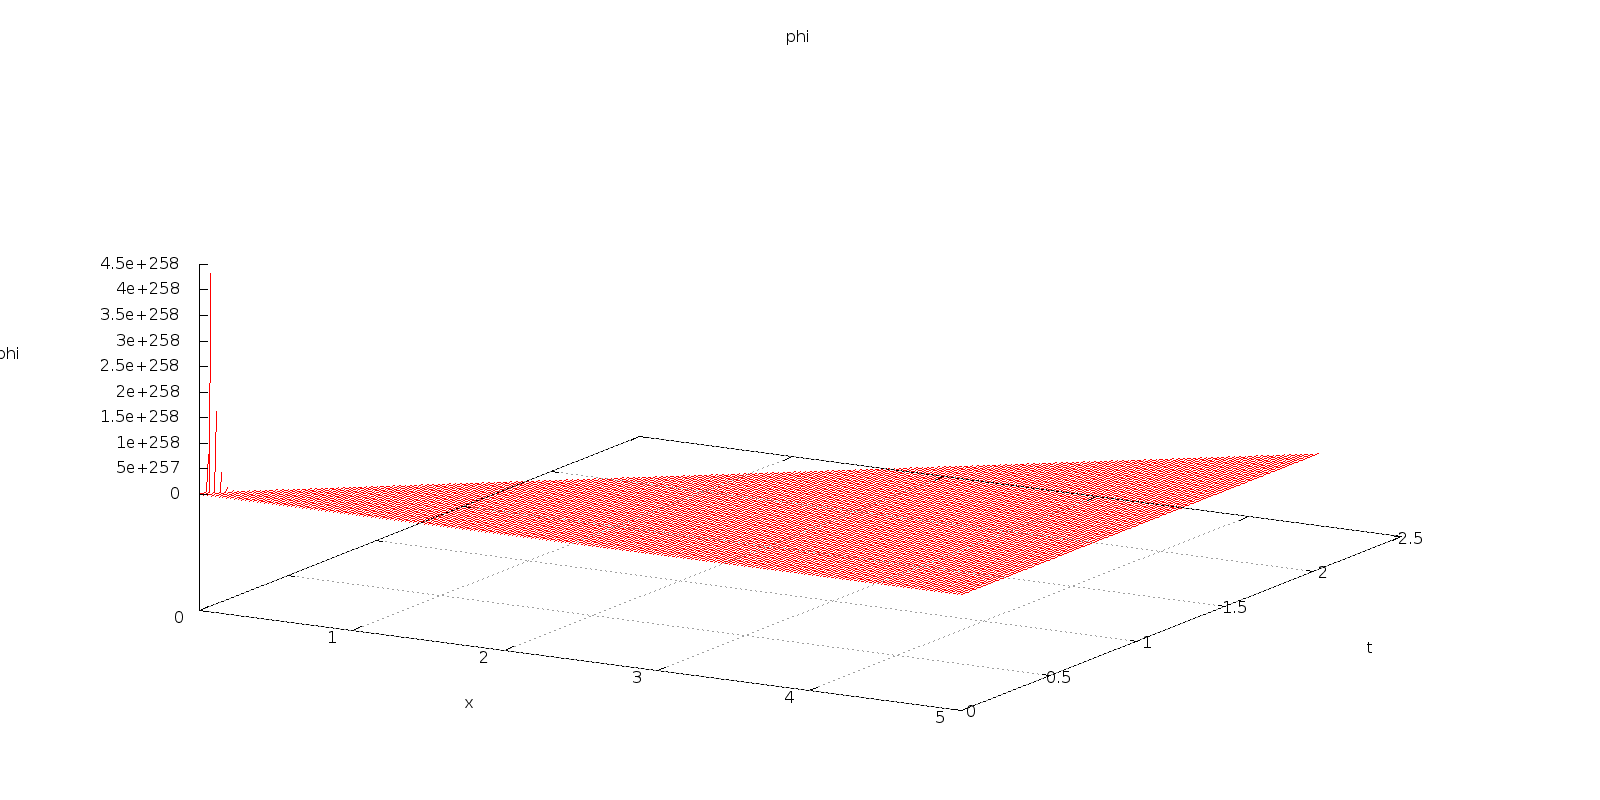
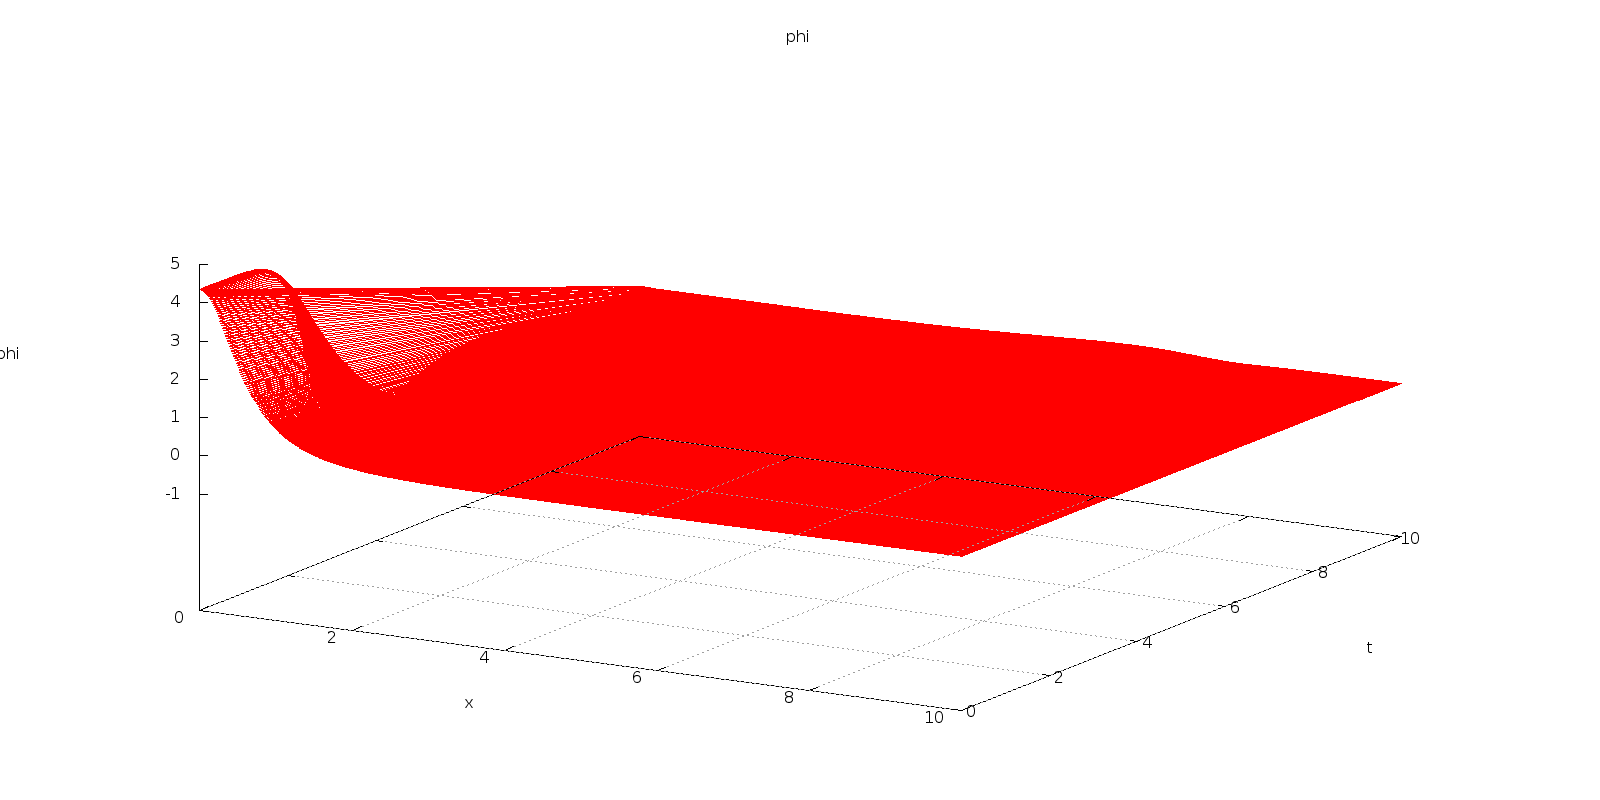
time evolution of sphaleron second attempt

Changed region(s): [[0.0625, 0.3125, 0.875, 0.75]]

diff --git a/sphaleronY0.cc b/sphaleronY0.cc
@@ -289,10 +289,10 @@ gsl_odeiv2_system sys = {func, jac, 4, &paramsVoid};
 double F = 1.0, dF;
 double aim = 0.0;
 double closeness = 1.0e-9;
-double t0 = 1.0e-16, t1 = 5.0;
-const unsigned int N = 2e2;
-double h = t1-t0;
-h /= (double)N;
+double r0 = 1.0e-16, r1 = 10.0;
+const unsigned int N = 8e2;
+double dr = r1-r0;
+dr /= (double)N;
 vector<double> y0Vec(N+1), y2Vec(N+1);
 unsigned int runsCount = 0;
 
@@ -300,14 +300,14 @@ double Y0 = 4.337;//initial guess
 //cout << "initial y0: ";
 //cin >> Y0;
 
-printf("%16s%16s%16s%16s%16s%16s%16s%16s\n","run","N","y(t1)","yMin","F-aim","Y0Old","Y0New","-F/dF");
+printf("%16s%16s%16s%16s%16s%16s%16s%16s\n","run","N","y(r1)","yMin","F-aim","Y0Old","Y0New","-F/dF");
 
 while (absolute(F-aim)>closeness)
 	{
 	runsCount++;
 	gsl_odeiv2_driver * d = gsl_odeiv2_driver_alloc_yp_new (&sys,  gsl_odeiv2_step_rk8pd, 1.0e-6, 1.0e-6, 0.0);
 
-	double t = t0, ti;
+	double r = r0, ri;
 	double y0[4] = { Y0, 0.0, 1.0, 0.0};
 	double y[4];
 	memcpy(y, y0, sizeof(y0));
@@ -319,14 +319,14 @@ while (absolute(F-aim)>closeness)
 	
 	for (i = 1; i <= N; i++)
 		{
-		ti =(double)i;
-		ti *= h;
-		ti += t0;
-		status = gsl_odeiv2_driver_apply (d, &t, ti, y);
+		ri =(double)i;
+		ri *= dr;
+		ri += r0;
+		status = gsl_odeiv2_driver_apply (d, &r, ri, y);
 		if (status != GSL_SUCCESS)
 			{
 			printf ("error, return value=%d\n", status);
-			printf ("i = %3i, t = %3g\n",i,t);
+			printf ("i = %3i, r = %3g\n",i,r);
 			break;
 			}
 		if ((y[0]-aim)<yMin && (y[0]-aim)>0.0)
@@ -336,7 +336,7 @@ while (absolute(F-aim)>closeness)
 			}
 		y0Vec[i] = y[0];
 		y2Vec[i] = y[2];
-		//printf ("%.5e %.5e %.5e\n", t, y[0], y[1]);
+		//printf ("%.5e %.5e %.5e\n", r, y[0], y[1]);
 		if ((y[0]-aim)<0.0)
 			{
 			iMin = i;
@@ -345,7 +345,7 @@ while (absolute(F-aim)>closeness)
 		}
 	if (status != GSL_SUCCESS){break;}
 		
-	F = y0Vec[iMin]-aim; //as final boundary condition is y(t1)=0.0;
+	F = y0Vec[iMin]-aim; //as final boundary condition is y(r1)=0.0;
 	dF = y2Vec[iMin];
 	printf("%16i%16i%16g%16g%16g%16.12g",runsCount,i,y[0],yMin,F-aim,Y0);
 	if (absolute(dF)>2.0e-16)
@@ -374,7 +374,7 @@ gsl_function E_integrand;
 E_integrand.function = &EIntegrand;
 E_integrand.params = &p;
 gsl_integration_workspace *w = gsl_integration_workspace_alloc(1e4);
-gsl_integration_qag(&E_integrand, t0, t1, 1.0e-10, 1.0e-9, 1e4, 4, w, &E, &Eerror);
+gsl_integration_qag(&E_integrand, r0, r1, 1.0e-10, 1.0e-9, 1e4, 4, w, &E, &Eerror);
 gsl_integration_workspace_free(w);
 if (Eerror>1.0e-8) { cout << "E error = " << Eerror << endl;}
 else { cout << "E = " << E << endl;}
@@ -385,15 +385,15 @@ else { cout << "E = " << E << endl;}
 spMat D1(N+1,N+1), D2(N+1,N+1);
 D1.setZero();
 D2.setZero();
-double t = t0;
+double t = r0;
 for (unsigned int j=0; j<(N+1); j++)
 	{
 	if (j==0)
 		{
-		D1.insert(j,j) = pow(t,2.0)/h + pow(t,2.0)*h*( 1.0 - 3.0*pow(y0Vec[j],2.0) );
-		D1.insert(j,j+1) = -pow(t,2.0)/h;
-		D2.insert(j,j) = 1.0/pow(h,2.0) + 2.0/h/t + 1.0 - 3.0*pow(y0Vec[j],2.0);
-		D2.insert(j,j+1) = -1.0/pow(h,2.0) - 2.0/h/t;
+		D1.insert(j,j) = pow(t,2.0)/dr + pow(t,2.0)*dr*( 1.0 - 3.0*pow(y0Vec[j],2.0) );
+		D1.insert(j,j+1) = -pow(t,2.0)/dr;
+		D2.insert(j,j) = 1.0/pow(dr,2.0) + 2.0/dr/t + 1.0 - 3.0*pow(y0Vec[j],2.0);
+		D2.insert(j,j+1) = -1.0/pow(dr,2.0) - 2.0/dr/t;
 		/*D1.insert(j,j) = -1.0; //derivative of phi is zero at r=0
 		D1.insert(j,j+1) = 1.0;
 		D2.insert(j,j) = -1.0;
@@ -401,23 +401,23 @@ for (unsigned int j=0; j<(N+1); j++)
 		}
 	else if (j==N)
 		{
-		D1.insert(j,j) = pow(t-h,2.0)/h + pow(t,2.0)*h*( 1.0 - 3.0*pow(y0Vec[j],2.0) );
-		D1.insert(j,j-1) = -pow(t-h,2.0)/h;
-		D2.insert(j,j) = 1.0/pow(h,2.0) + 1.0 - 3.0*pow(y0Vec[j],2.0);
-		D2.insert(j,j-1) = -1.0/pow(h,2.0);
+		D1.insert(j,j) = pow(t-dr,2.0)/dr + pow(t,2.0)*dr*( 1.0 - 3.0*pow(y0Vec[j],2.0) );
+		D1.insert(j,j-1) = -pow(t-dr,2.0)/dr;
+		D2.insert(j,j) = 1.0/pow(dr,2.0) + 1.0 - 3.0*pow(y0Vec[j],2.0);
+		D2.insert(j,j-1) = -1.0/pow(dr,2.0);
 		/*D1.insert(j,j) = 1.0; //phi goes to zero as r->infty
 		D2.insert(j,j) = 1.0;*/
 		}
 	else
 		{
-		D1.insert(j,j) = pow(t,2.0)/h + pow(t-h,2.0)/h + pow(t,2.0)*h*( 1.0 - 3.0*pow(y0Vec[j],2.0) );
-		D1.insert(j,j+1) = -pow(t,2.0)/h;
-		D1.insert(j,j-1) = -pow(t-h,2.0)/h;
-		D2.insert(j,j) = 2.0/pow(h,2.0) + 2.0/h/t + 1.0 - 3.0*pow(y0Vec[j],2.0);
-		D2.insert(j,j+1) = -1.0/pow(h,2.0) - 2.0/h/t;
-		D2.insert(j,j-1) = -1.0/pow(h,2.0);
+		D1.insert(j,j) = pow(t,2.0)/dr + pow(t-dr,2.0)/dr + pow(t,2.0)*dr*( 1.0 - 3.0*pow(y0Vec[j],2.0) );
+		D1.insert(j,j+1) = -pow(t,2.0)/dr;
+		D1.insert(j,j-1) = -pow(t-dr,2.0)/dr;
+		D2.insert(j,j) = 2.0/pow(dr,2.0) + 2.0/dr/t + 1.0 - 3.0*pow(y0Vec[j],2.0);
+		D2.insert(j,j+1) = -1.0/pow(dr,2.0) - 2.0/dr/t;
+		D2.insert(j,j-1) = -1.0/pow(dr,2.0);
 		}
-	t += h;
+	t += dr;
 	}
 D1.makeCompressed();
 D2.makeCompressed();
@@ -430,40 +430,61 @@ printf("From Matlab, omega^2_- = -15.3060\n\n");
 //propagating sphaleron plus a small amount of negative mode forward in time
 //in order to calculate E_lin and N_lin
 
-unsigned int Nt = 1e3;
-double T = 10.0, amp = 1.0e-4;
+unsigned int Nt = N*3;
+double T = 10.0, amp = -1.0e-2;
+//cout << "amp of negative mode: ";
+//cin >> amp;
 double dt = T/Nt; //equals Dt
-vec phi((Nt+1)*(N+1)), vel((Nt+1)*(N+1)), acc((Nt+1)*(N+1)), eigVec, xVec((Nt+1)*(N+1)), tVec((Nt+1)*(N+1));
+if (dt>0.5*dr)
+	{
+	cout << "dt too large. dt = "<< dt << ", dr = " << dr << endl;
+	return 0;
+	}
+vec phi((Nt+1)*(N+1)), vel((Nt+1)*(N+1)), acc((Nt+1)*(N+1)), eigVec, rVec((Nt+1)*(N+1)), tVec((Nt+1)*(N+1));
 
 //getting eigVec from file
 eigVec = loadSimpleVector("data/sphaleronEigVec.dat");
 
+//initial condition 1)
 //defining phi on initial time slice
 for (unsigned int j=0;j<(N+1);j++)
 	{
 	unsigned int l = j*(Nt+1);
 	tVec(l) = 0.0;
-	xVec(l) = t0+j*h;
+	rVec(l) = r0+j*dr;
 	phi(l) = y0Vec[j] + amp*eigVec(j);
 	}
 
-//intitialize velocity
+//initial condition 2)
+//intitialize velocity, dphi/dt(x,0) = 0;
 for (unsigned int j=0; j<(N+1); j++)
 	{
 	unsigned int l = j*(Nt+1);
-    vel(l) = 0.0; //not sure about this initial condition
+    vel(l) = 0.0;
 	}
 
+//boundary condition 1)
+//phi=0.0 at r=L
+for (unsigned int j=0;j<(Nt+1);j++)
+	{
+	unsigned int l = N*(Nt+1) + j;
+	tVec(l) = j*dt;
+	rVec(l) = r1;
+	phi(l) = 0.0;
+	}
 
+//boundary condition 2)
 //initialize acc using phi and expression from equation of motion
-acc(0) = (phi((Nt+1)) - phi(0))/pow(h,2.0) - phi(0) + pow(phi(0),3.0);
-unsigned int l = N*(Nt+1);
-acc(l) = (phi(l-(Nt+1))*t1/(t1-h) - phi(l)*t1/(t1-h))/pow(h,2.0) - phi(l) + pow(phi(l),3.0);
+/*the unusual d^2phi/dr^2 term and the absence of the first derivative term
+are due to the boundary condition 2) which, to second order, is phi(t,-dr) = phi(t,dr)*/
+acc(0) = 2.0*(phi(Nt+1) - phi(0))/pow(dr,2.0) - phi(0) + pow(phi(0),3.0);
+acc(0) *= 0.5; //as initial time slice, generated from taylor expansion and equation of motion
 for (unsigned int j=1; j<N; j++)
 	{
-	l = j*(Nt+1);
-	double r = t0 + h*j;
-    acc(l) = (phi(l+(Nt+1)) + phi(l-(Nt+1))*r/(r-h) - phi(l)*(1.0+r/(r-h)))/pow(h,2.0) - phi(l) + pow(phi(l),3.0);
+	unsigned int l = j*(Nt+1);
+	double r = r0 + dr*j;
+    acc(l) = (phi(l+(Nt+1)) + phi(l-(Nt+1)) - 2.0*phi(l))/pow(dr,2.0) + (phi(l+(Nt+1))-phi(l-(Nt+1)))/r/dr - phi(l) + pow(phi(l),3.0);
+    acc(l) *= 0.5;
 	}
 	
 //A4.5 starting the energy and particle number off
@@ -473,26 +494,24 @@ for (unsigned int j=1; j<N; j++)
 //A7. run loop
 for (unsigned int u=1; u<(Nt+1); u++)
 	{
-    for (unsigned int x=0; x<(N+1); x++)
+    for (unsigned int x=0; x<N; x++) //don't loop over last x position as fixed by boundary condition 1)
     	{
         unsigned int m = u+x*(Nt+1);
         tVec(m) = u*dt;
-		xVec(m) = t0+x*h;
+		rVec(m) = r0+x*dr;
         vel(m) = vel(m-1) + dt*acc(m-1);
         phi(m) = phi(m-1) + dt*vel(m);
     	}
-    acc(u) = (phi(u+(Nt+1)) - phi(u))/pow(h,2.0) - phi(u) + pow(phi(u),3.0);
-    unsigned int v = u+N*(Nt+1);
-    acc(v) = (phi(v-(Nt+1))*t1/(t1-h) - phi(v)*t1/(t1-h))/pow(h,2.0) - phi(v) + pow(phi(v),3.0);
+    acc(u) = 2.0*(phi(u+Nt+1) - phi(u))/pow(dr,2.0) - phi(u) + pow(phi(u),3.0);
     for (unsigned int x=1; x<N; x++)
     	{
         unsigned int m = u+x*(Nt+1);
-        double r = t0 + x*h;
-        acc(m) = (phi(m+(Nt+1)) + phi(m-(Nt+1))*r/(r-h) - phi(m)*(1.0+r/(r-h)))/pow(h,2.0) - phi(m) + pow(phi(m),3.0);
+        double r = r0 + x*dr;
+        acc(m) = (phi(m+(Nt+1)) + phi(m-(Nt+1)) - 2.0*phi(m))/pow(dr,2.0) + (phi(m+(Nt+1))-phi(m-(Nt+1)))/r/dr - phi(m) + pow(phi(m),3.0);
     	}
 	}
 	
-printThreeVectors("data/sphaleronEvolution.dat",tVec,xVec,phi);
+printThreeVectors("data/sphaleronEvolution.dat",tVec,rVec,phi);
 gp("data/sphaleronEvolution.dat","sphaleron.gp");
 printf("Time evolution printed: data/sphaleronEvolution.dat pics/sphaleronEvolution.png\n");
 
